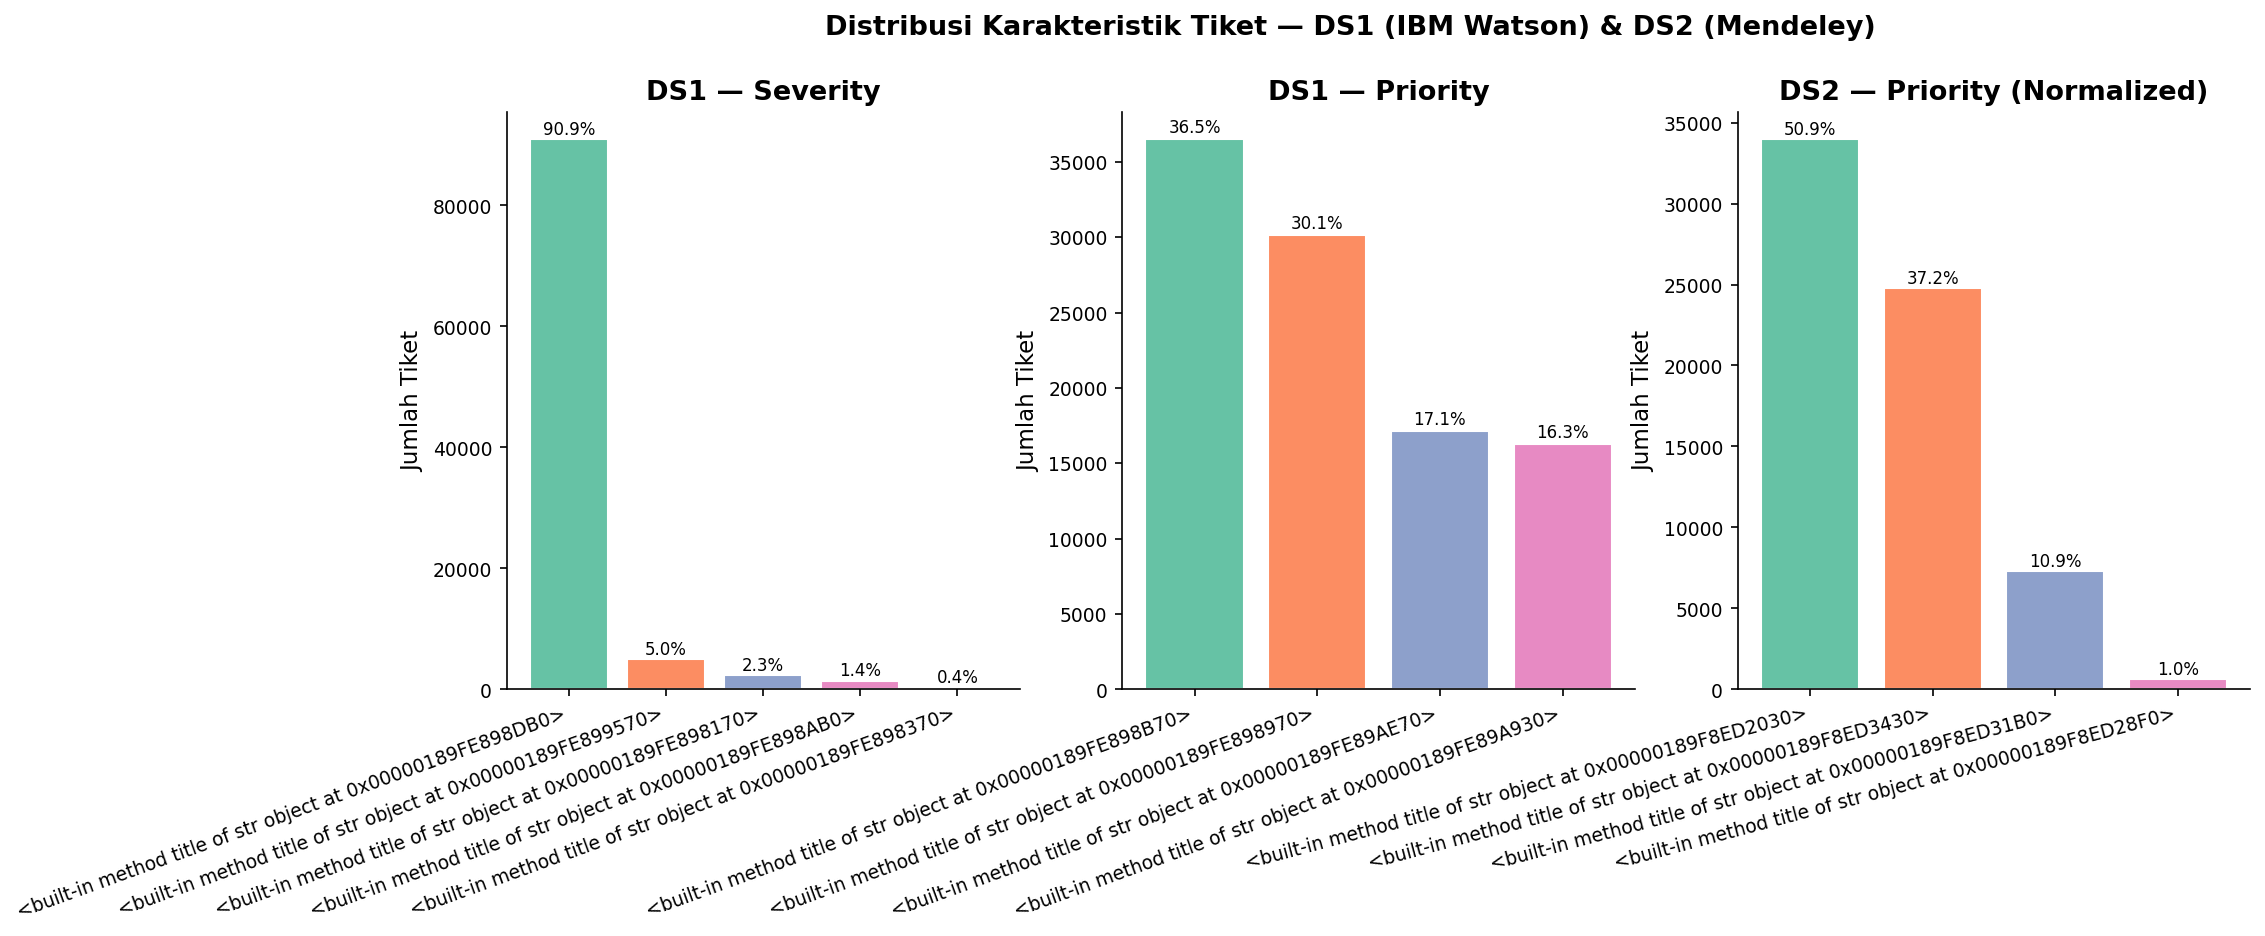
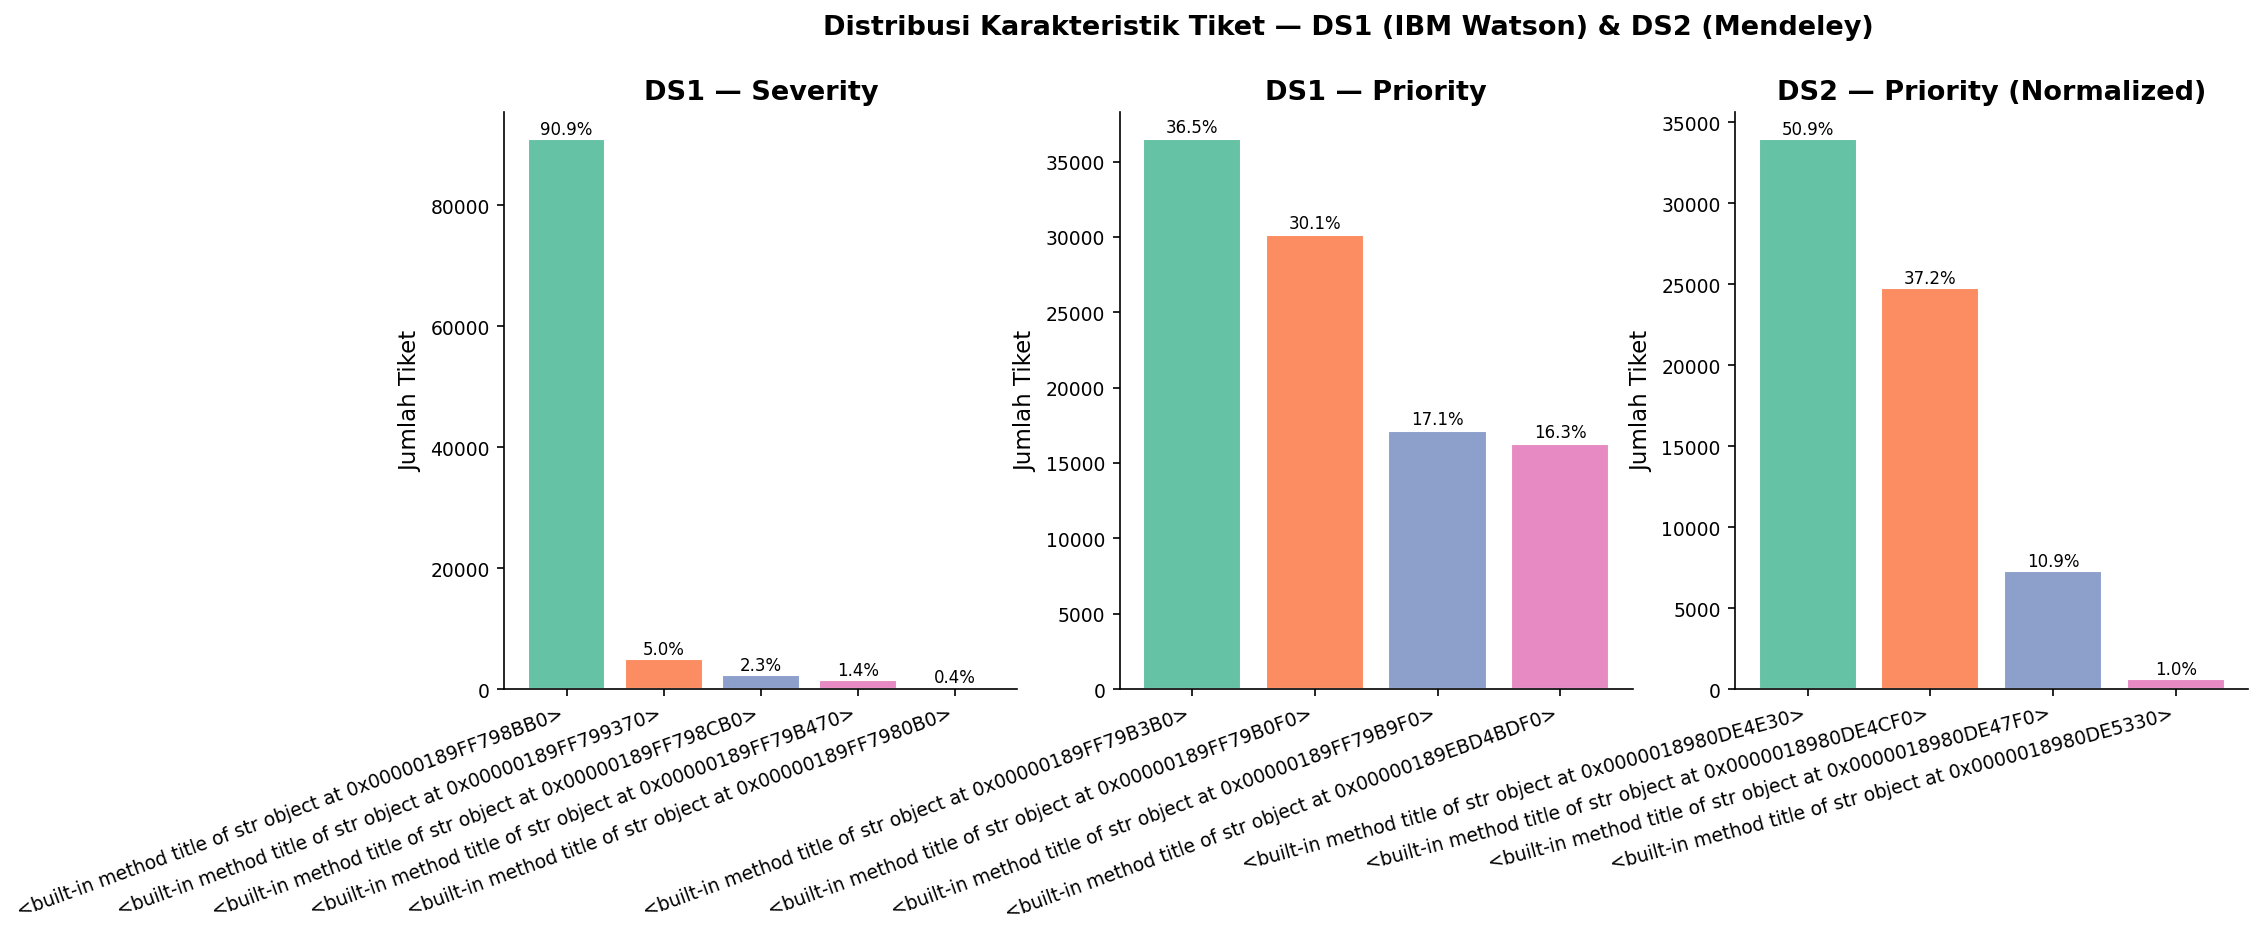
fix notebook explore

diff --git a/README.md b/README.md
@@ -36,7 +36,7 @@ jupyter notebook
 | `notebooks/01_obtain.ipynb` | Nicholas (Data Engineer) | Preparation dan Project Setup |
 | `notebooks/02_scrub.ipynb` | Ghazy (Preprocessing Lead) | Cleaning dan integrasi data |
 | `notebooks/03_explore.ipynb` | Ghazy dan Aziz (Preprocessing Lead dan Visualization / Dashboard Developer) | Eksplorasi dan visualisasi |
-| `notebooks/04_model.ipynb` | Daffa (Data Analyst) | Pemodelan dan evaluasi |
+| `notebooks/04_model.ipynb` | Aziz (Visualization / Dashboard Developer) | Pemodelan dan evaluasi |
 | `notebooks/05_interpret.ipynb` | Aziz (Visualization / Dashboard Developer) | Visualisasi hasil model, insight, dan rekomendasi |
 
 